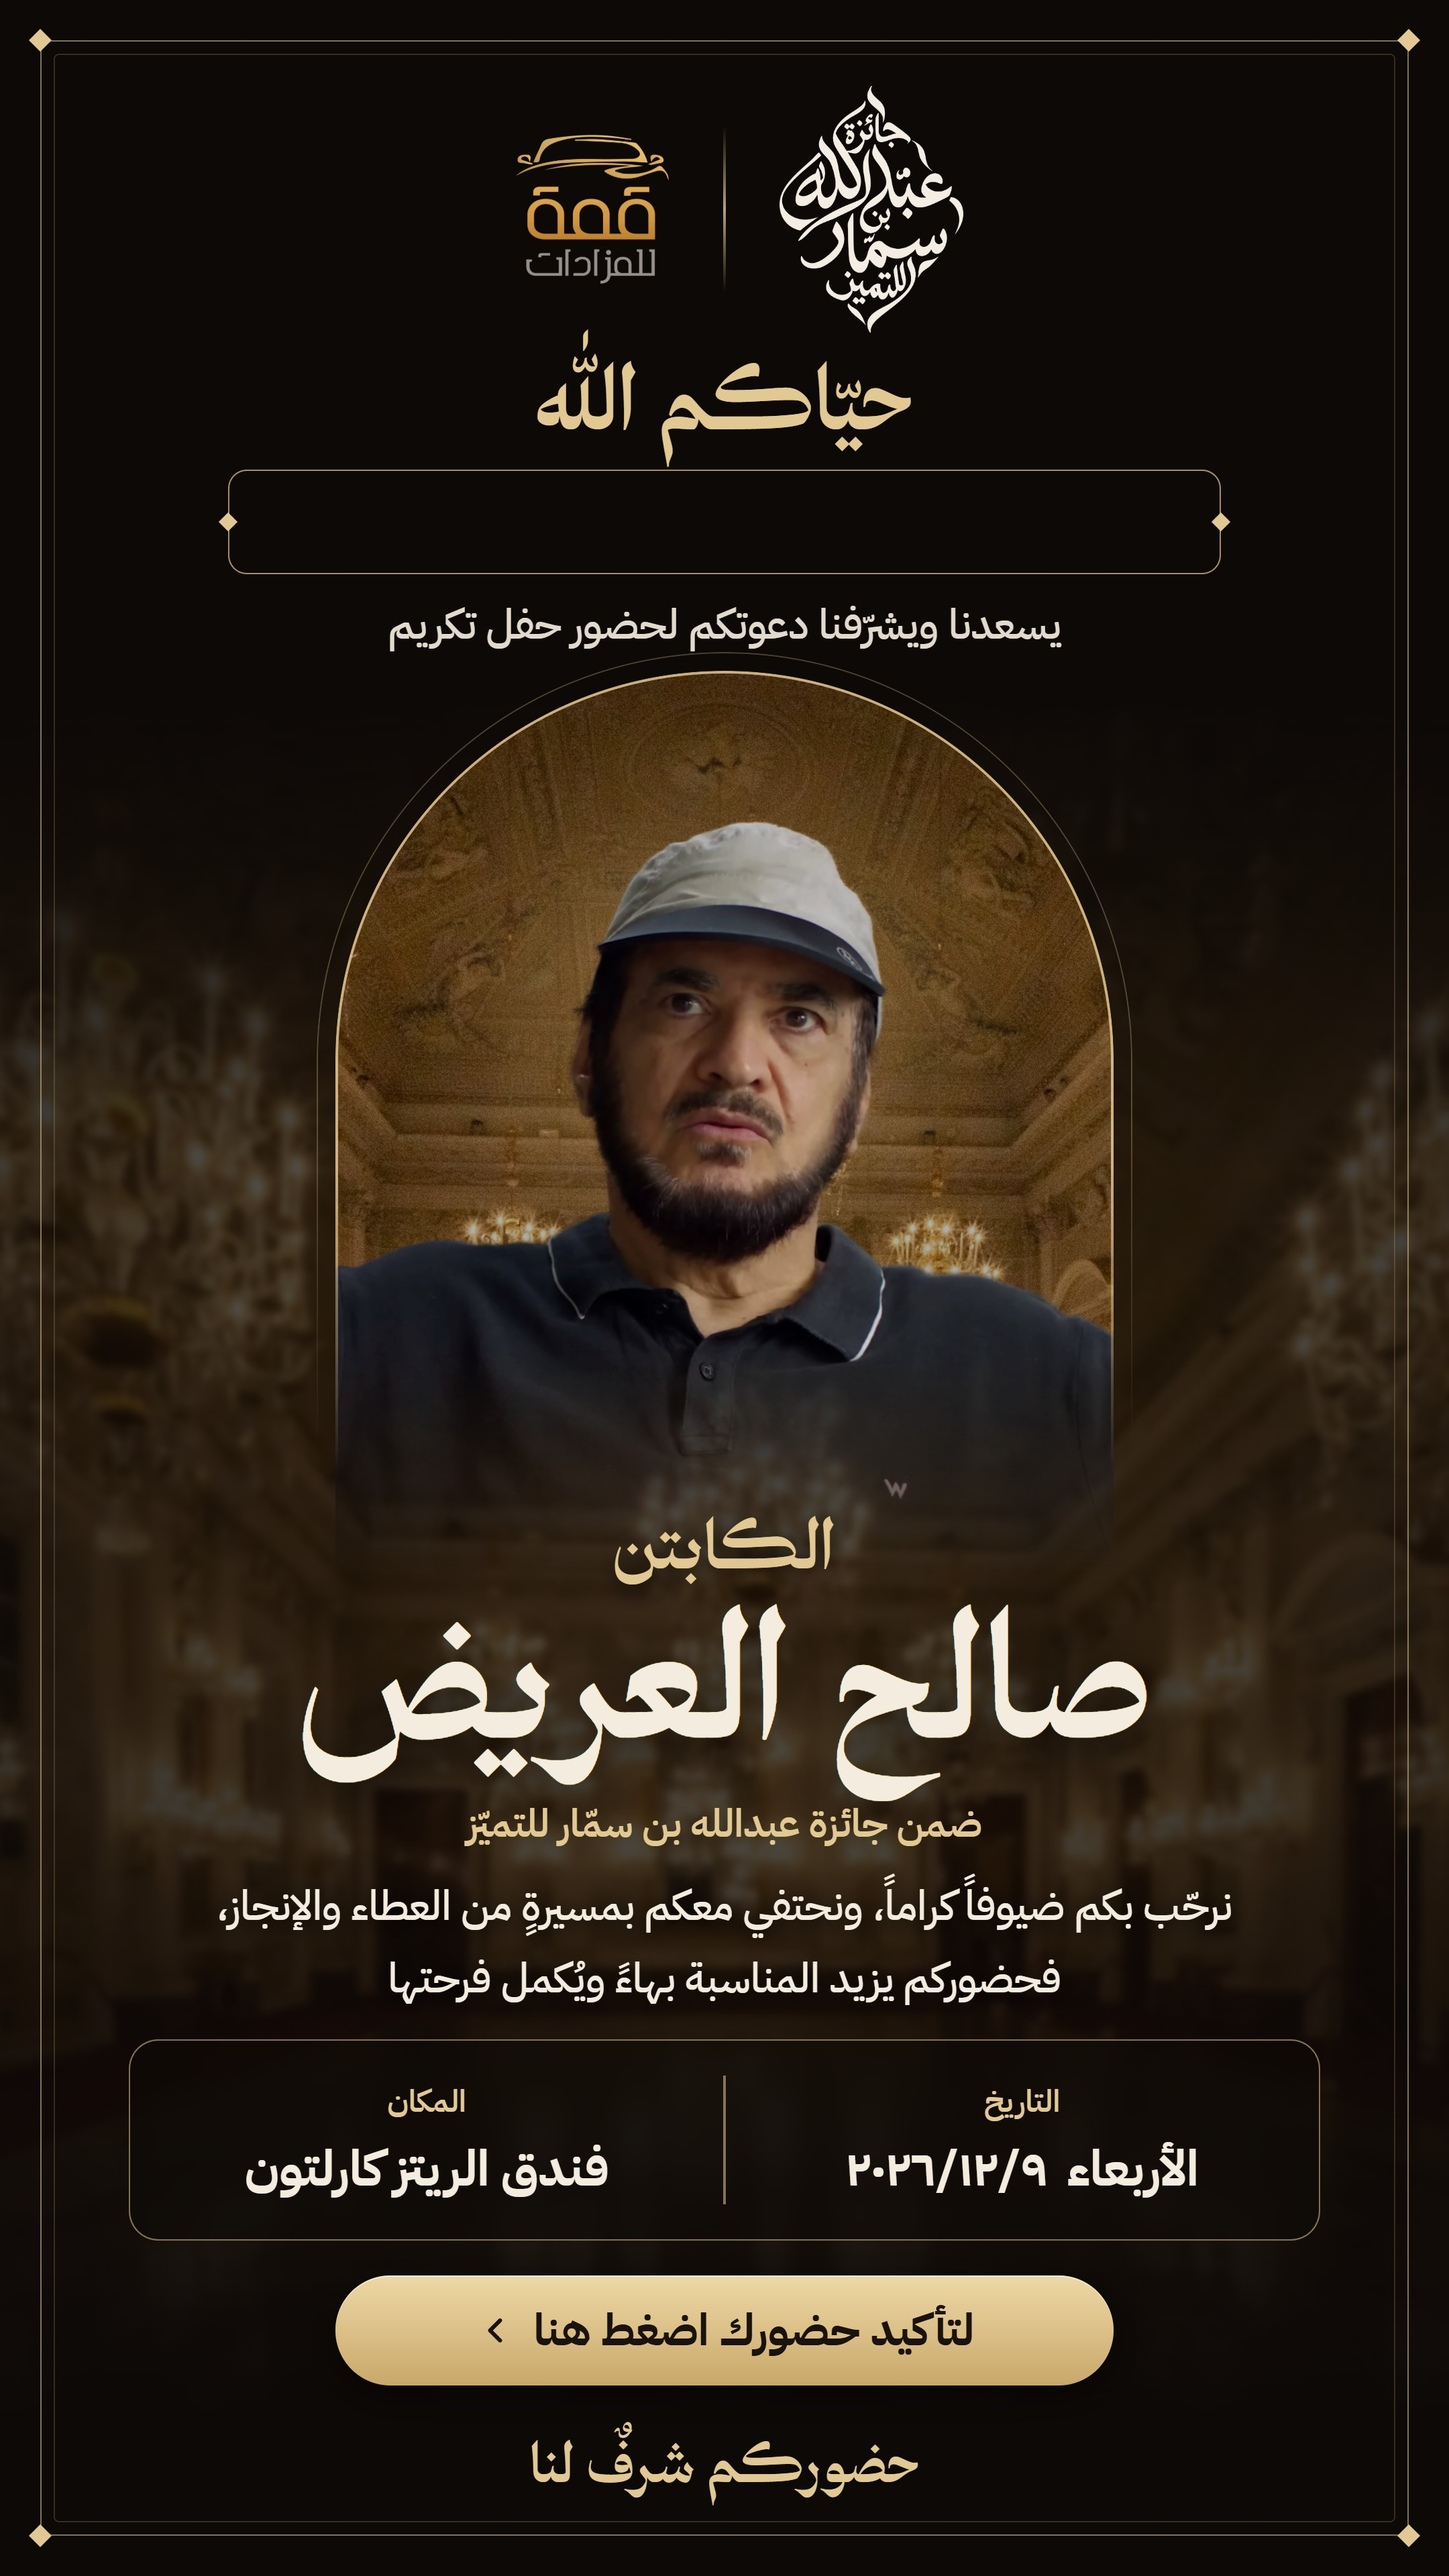
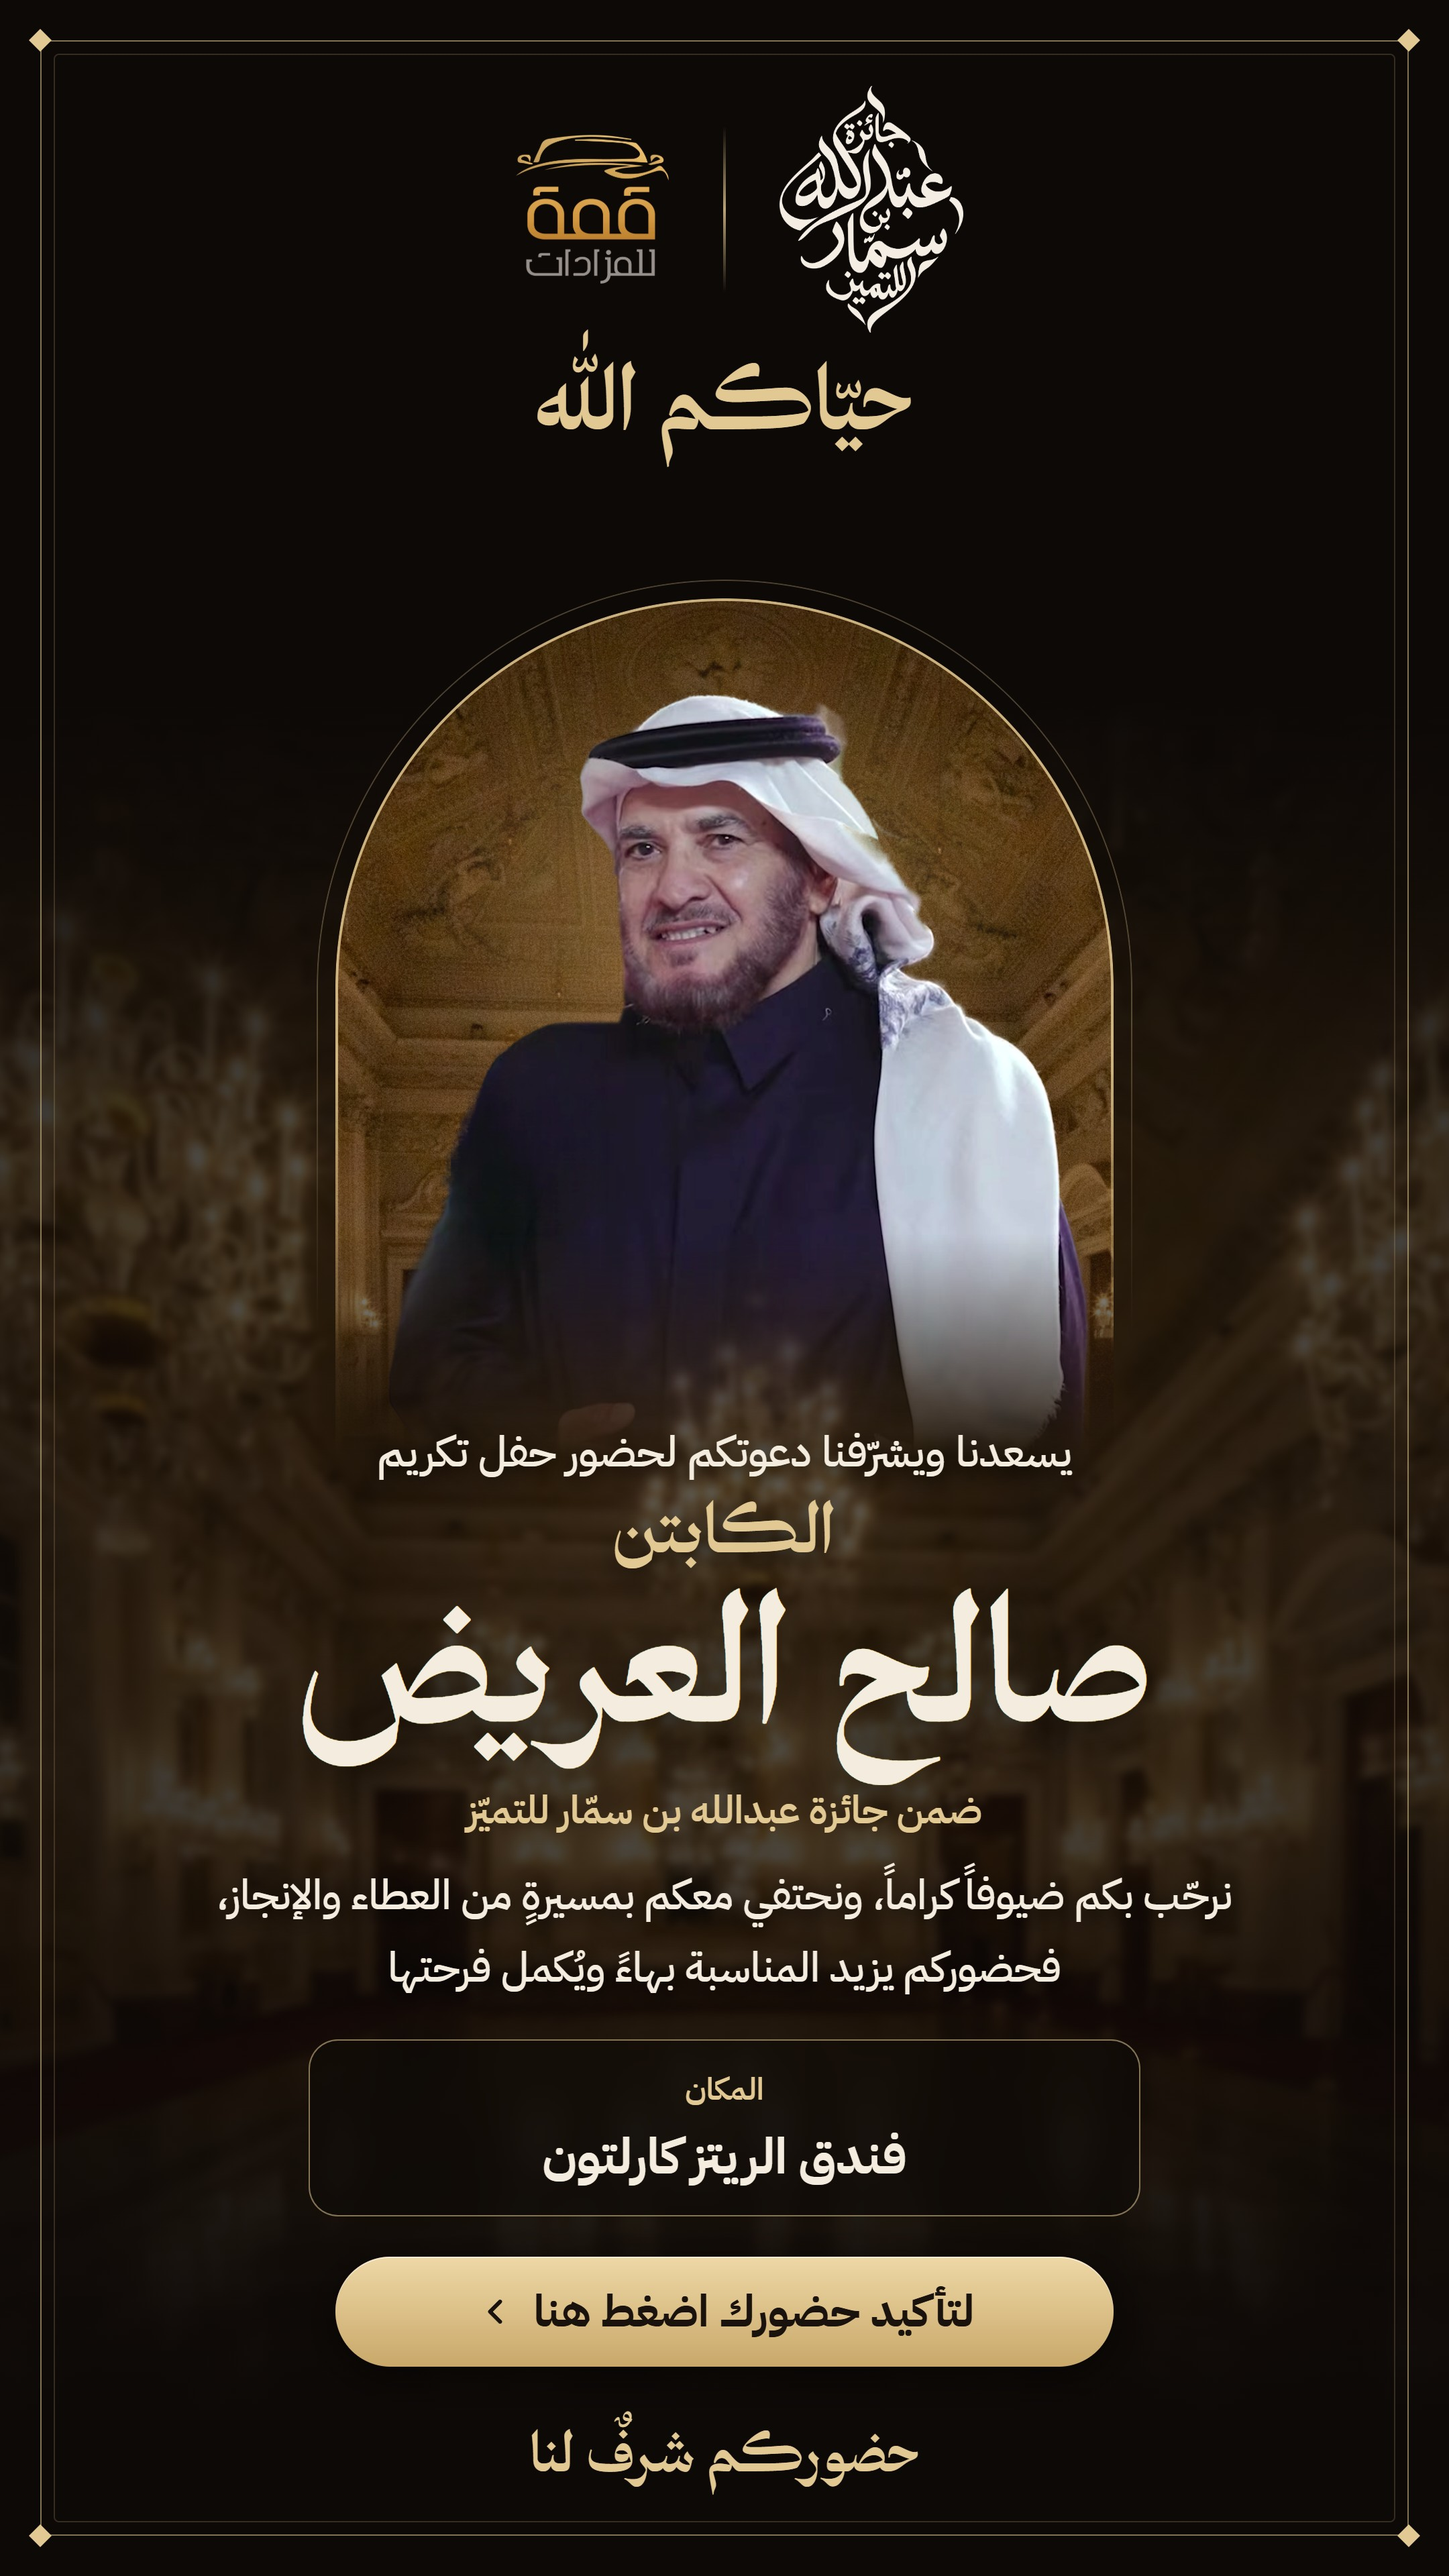
صورة الشماغ، الاسم بدون إطار، بدون التاريخ

diff --git a/index.html b/index.html
@@ -54,8 +54,8 @@ button:disabled{opacity:.4;cursor:default}
 <script>
 const W=2160,H=3840;
 const RSVP='https://event.esol.sa/r/0tXcecrAfLyDHgmjCbm9Z37Glzr4gfIQwl03Qecj';
-// name plate (css 170..910 x 350..428 at 2x)
-const PX=1080,PY=778,PMAX=1340;
+// name line under «حيّاكم الله» (no frame), centre css y≈390
+const PX=1080,PY=780,PMAX=1700;
 const FONT='"IBM Plex Sans Arabic"';
 const cv=document.getElementById('cv'),ctx=cv.getContext('2d');
 const nm=document.getElementById('nm'),btn=document.getElementById('send'),msg=document.getElementById('msg');
@@ -68,10 +68,10 @@ function fileName(n){return n.replace(/[\\/:*?"<>|]/g,'').trim()+'.pdf'}
 function draw(n){
   ctx.drawImage(base,0,0,W,H);
   if(!n)return;
-  let size=78;
+  let size=86;
   ctx.direction='rtl';ctx.textAlign='center';ctx.textBaseline='alphabetic';
   do{ctx.font='700 '+size+'px '+FONT;if(ctx.measureText(n).width<=PMAX)break;size-=2}while(size>34);
-  ctx.fillStyle='#F0DDAE';
+  ctx.fillStyle='#F4ECDE';
   ctx.shadowColor='rgba(0,0,0,.55)';ctx.shadowBlur=14;
   ctx.fillText(n,PX,PY+size*0.36);
   ctx.shadowBlur=0;ctx.shadowColor='transparent';
@@ -83,7 +83,7 @@ function build(n){
   const doc=new jspdf.jsPDF({orientation:'portrait',unit:'pt',format:[540,960],compress:true});
   doc.setProperties({title:n,subject:'دعوة حفل تكريم الكابتن صالح العريض'});
   doc.addImage(url,'JPEG',0,0,540,960,undefined,'FAST');
-  doc.link(125,848,290,41,{url:RSVP});
+  doc.link(125,841,290,41,{url:RSVP});
   const blob=doc.output('blob');
   const fn=fileName(n);
   cache={name:n,file:new File([blob],fn,{type:'application/pdf'})};
